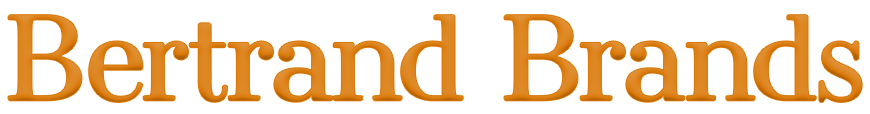
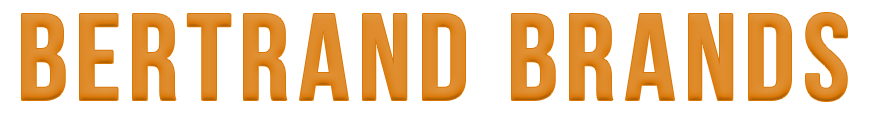
update: replace Bertrand Brands wordmark with latest versions
- Copied updated wordmark assets from Downloads
- Bumped cache version to v=3 to force refresh

diff --git a/src/pages/index.html b/src/pages/index.html
@@ -1014,8 +1014,8 @@
                 <div class="glass glass--hero hero-content">
                     <!-- V2.1 Conversion Hero - Mobile-optimized hierarchy -->
                     <div class="hero-brand">
-                        <img src="/assets/bertrand-brands-wordmark-dark.png?v=2" alt="Bertrand Brands" class="hero-brand-wordmark hero-brand-wordmark--dark" width="400" height="100">
-                        <img src="/assets/bertrand-brands-wordmark-light.png?v=2" alt="Bertrand Brands" class="hero-brand-wordmark hero-brand-wordmark--light" width="400" height="100">
+                        <img src="/assets/bertrand-brands-wordmark-dark.png?v=3" alt="Bertrand Brands" class="hero-brand-wordmark hero-brand-wordmark--dark" width="400" height="100">
+                        <img src="/assets/bertrand-brands-wordmark-light.png?v=3" alt="Bertrand Brands" class="hero-brand-wordmark hero-brand-wordmark--light" width="400" height="100">
                     </div>
                     <h1 class="tagline">Brand & Web Systems</h1>
                     <p class="tagline-location">for Greater Sudbury & Northern Ontario</p>
